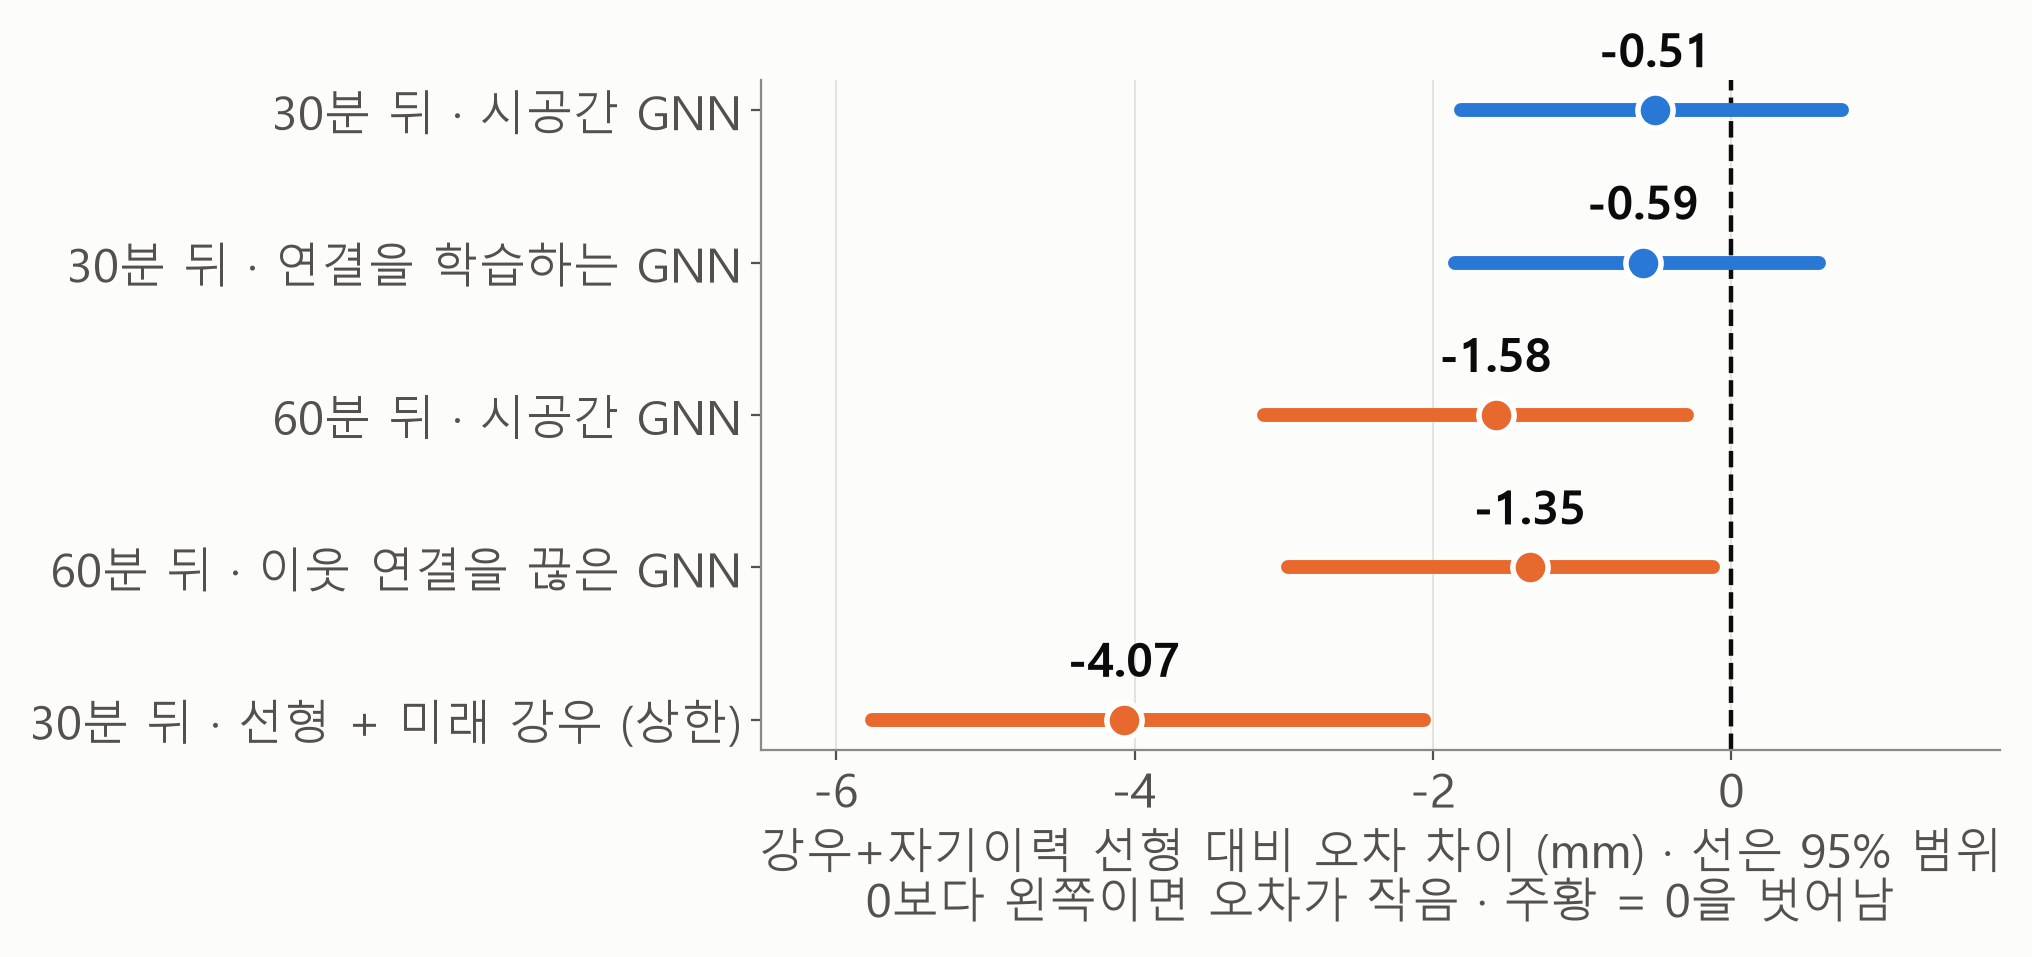
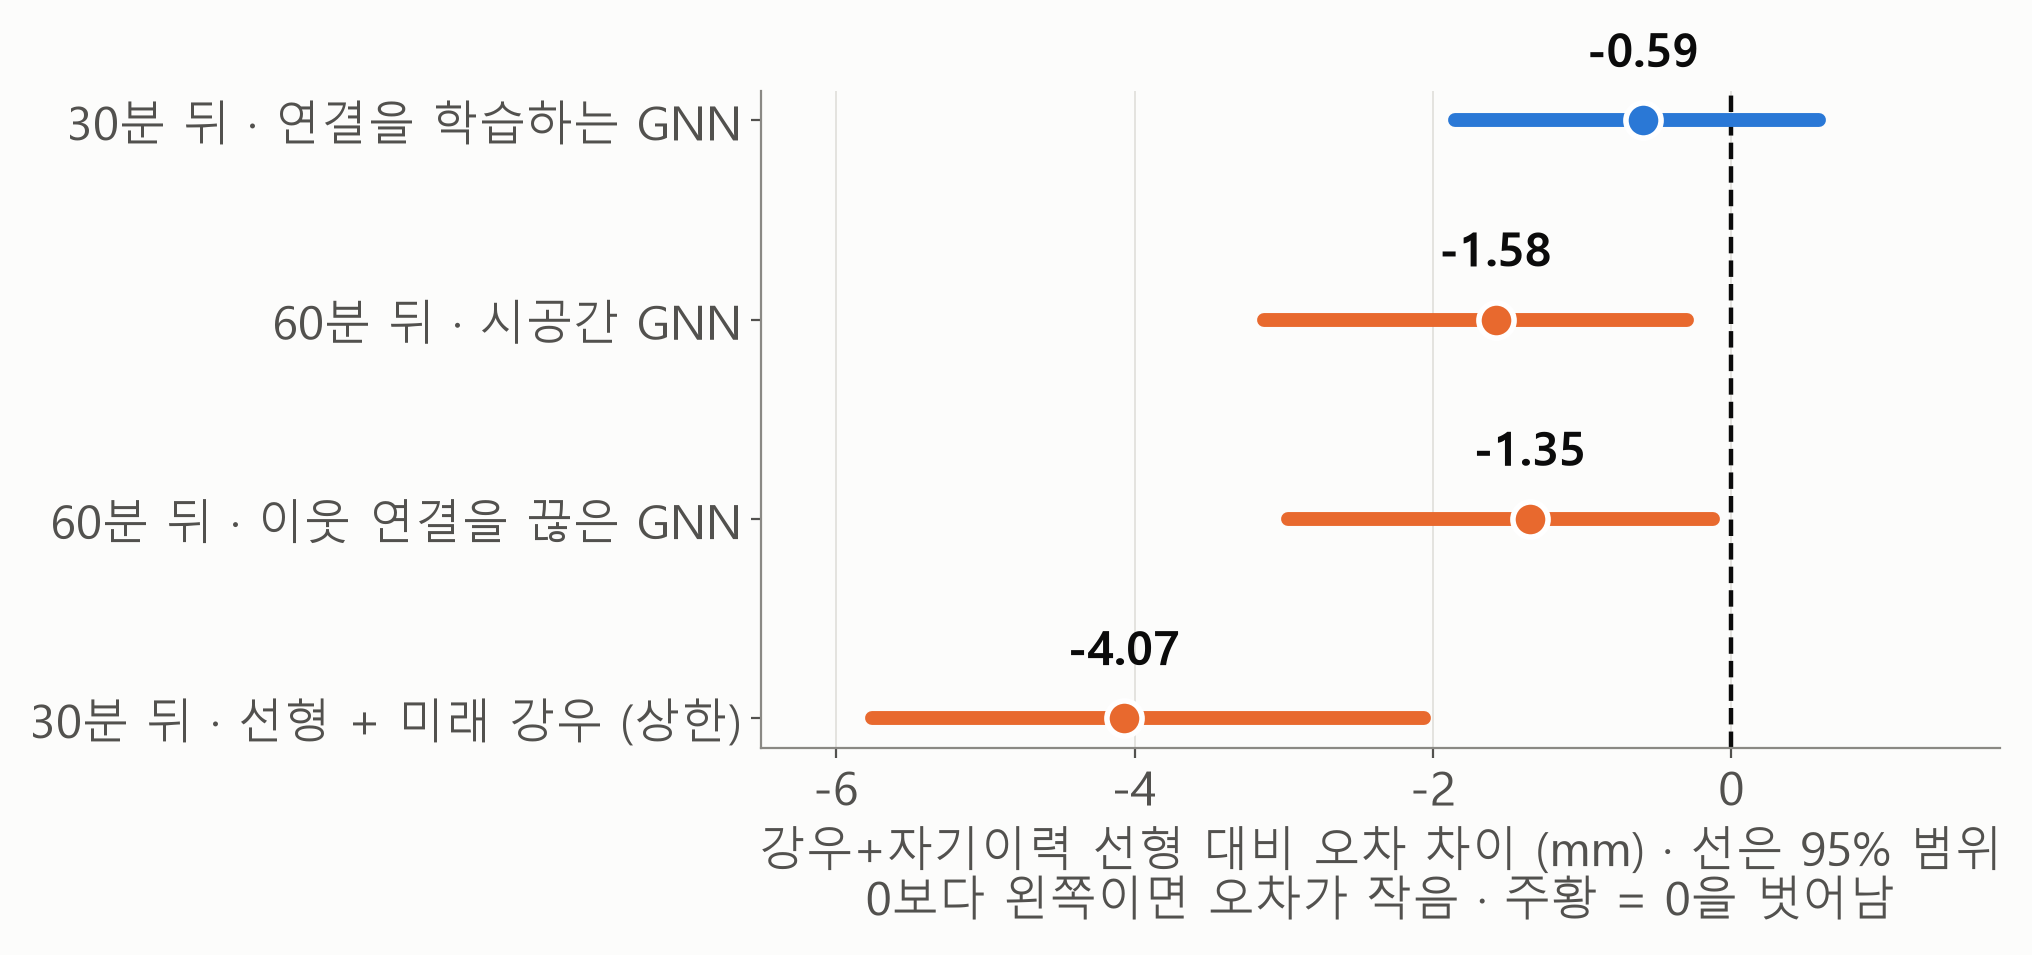
figures: 11주차 일지에서 10주차와 겹치는 내용 제외(오차 차이 그림 F1 제외판 s_t1_diff_followup), docs/18·figures README 반영

diff --git a/src/analysis/figures_t1.py b/src/analysis/figures_t1.py
@@ -1,7 +1,7 @@
 """시공간 GNN 단기 예측(T1) 그림 2장. 수치는 판정 보고서·집계 파일의 값만 읽는다(새로 계산하지 않는다).
 
 실행: python -m src.analysis.figures_t1
-출력: outputs/figures/slide/{s_t1_diff,s_t1_warning}.png
+출력: outputs/figures/slide/{s_t1_diff,s_t1_diff_followup,s_t1_warning}.png
 - 선형(M2) 대비 오차 차이와 95% CI: F1(docs/19), A1(docs/29), D1(docs/28), N2(docs/31), O1(docs/33) 판정 줄
 - 30분 전 큰 상승(200 mm) 첫 도달 맞힘 건수: docs/25 집계(M2, G-road)와 docs/33 보고서(M2F)
 """
@@ -35,9 +35,10 @@ def verdict_line(fname: str, tag: str) -> tuple[float, float, float]:
     raise ValueError(f"{fname}: {tag} 판정 줄이 없다")
 
 
-def t1_diff():
-    vals = [verdict_line(f, t) for f, t, _ in DIFF_ROWS]
-    fig, ax = plt.subplots(figsize=(10.4, 5.0), dpi=130)
+def t1_diff(rows=DIFF_ROWS, name: str = "s_t1_diff"):
+    """rows: DIFF_ROWS 의 부분집합. 11주차 일지는 10주차 일지와 겹치는 F1 줄을 뺀 판(s_t1_diff_followup)을 쓴다."""
+    vals = [verdict_line(f, t) for f, t, _ in rows]
+    fig, ax = plt.subplots(figsize=(10.4, 1.0 * len(rows) + 1.0), dpi=130)
     for i, (v, lo, hi) in enumerate(vals):
         col = "#2A78D6" if lo <= 0 <= hi else "#E8692E"
         ax.plot([lo, hi], [i, i], color=col, lw=5, solid_capstyle="round", zorder=3)
@@ -45,13 +46,13 @@ def t1_diff():
         ax.text(v, i - 0.22, f"{v:+.2f}", ha="center", va="bottom", fontsize=FS, fontweight="bold", color=C["ink"])
     ax.axvline(0, color=C["ink"], ls="--", lw=1.6)
     ax.set_yticks(range(len(vals)))
-    ax.set_yticklabels([lab for *_, lab in DIFF_ROWS], fontsize=FS)
+    ax.set_yticklabels([lab for *_, lab in rows], fontsize=FS)
     ax.invert_yaxis()
     ax.set_xlim(-6.5, 1.8)
     ax.set_xlabel("강우+자기이력 선형 대비 오차 차이 (mm) · 선은 95% 범위\n0보다 왼쪽이면 오차가 작음 · 주황 = 0을 벗어남")
     ax.grid(axis="y", visible=False)
     fig.tight_layout()
-    return _save(fig, "s_t1_diff")
+    return _save(fig, name)
 
 
 def t1_warning():
@@ -81,4 +82,5 @@ def t1_warning():
 
 if __name__ == "__main__":
     print(t1_diff())
+    print(t1_diff([r for r in DIFF_ROWS if r[1] != "F1"], "s_t1_diff_followup"))
     print(t1_warning())

diff --git a/docs/figures/README.md b/docs/figures/README.md
@@ -26,6 +26,6 @@
 | `6주차_실습일지/` | 그림1 수위 데이터 품질 분석, 그림2 학습 대상 20개 지점 위치정보 | 편집기 화면 캡처(6주차 HWP에서 꺼냄, 원본 파일 없음) |
 | `7주차_실습일지/` | 그림1 공간 그래프 ~ 그림6 결측 현황 | `fig1_spatial_graph_k3`, `fig2_water_levels_full`, `fig2_water_levels_zoom`, `fig3_baseline_mae`, `fig3_baseline_rmse`, `fig4_observation_availability` (`src/visualization/make_figures.py`) |
 | `9주차_실습일지/` | 그림1 2026 센서 배치, 그림2 2026 모델별 오차 | `slide/s2026_sensor_map.png`, `slide/s2026_gnn_ci.png` (`src/analysis/figures_2026.py`) |
-| `11주차_실습일지/` | 그래프 보완 판정, 예측 오차 차이(선형 대비), 큰 상승 감지 건수, 대시보드 뼈대 화면 | `slide/s2026_graph_diff.png` (`figures_2026.py`), `slide/s_t1_diff.png`·`slide/s_t1_warning.png` (`figures_t1.py`), 대시보드 캡처(`streamlit run dashboard.py`) |
+| `11주차_실습일지/` | 예측 오차 차이(선형 대비, 10주차와 겹치는 30분 GNN 줄 제외), 큰 상승 감지 건수 (그래프 보완 판정·대시보드 뼈대는 10주차 일지에 들어가 11주차 최종본에서는 뺌) | `slide/s_t1_diff_followup.png`·`slide/s_t1_warning.png` (`figures_t1.py`), 이전 초안용 `slide/s2026_graph_diff.png` (`figures_2026.py`), 대시보드 캡처 |
 
 일지 문서(HWP·docx)는 `docs/logs/`에 있다.

diff --git a/docs/18_week11_status.md b/docs/18_week11_status.md
@@ -40,7 +40,7 @@
 3. **최종까지 연구 후보:**
    - 실제 강우 예보(초단기 강수 예측·레이더)로 상한 실험을 다시 확인한다. 과거 예보 자료를 구할 수 있는지부터 확인한다.
    - 미래 강우를 넣은 GNN.
-4. **11주차 일지:** 11-15에 최종본을 작성했다(`docs/logs/11주차/`, git 제외). 주제는 "추정·예측"으로 바꿨고, 그림 3장(그래프 보완, 예측 오차 차이, 큰 상승 감지)을 넣었다. 대시보드 캡처는 뺐다.
+4. **11주차 일지:** 11-15에 최종본을 작성했다(`docs/logs/11주차/`, git 제외). 10주차 일지(친구 작성, 수정 불가)와 겹치는 내용(그래프 보완 실험, 배수분구 문의, 30분 GNN 판정 수치, 대시보드)은 빼고 후속 실험(시차·고도, 큰 상승 감지, 연결 학습, 60분 확장, 이웃 없는 GNN, 미래 강우)만 담았다. 그림 2장(예측 오차 차이 F1 제외판, 큰 상승 감지).
    - 10주차 일지를 따로 내야 하는지는 아직 확인하지 않았다.
 
 ## 3. 실행 메모
